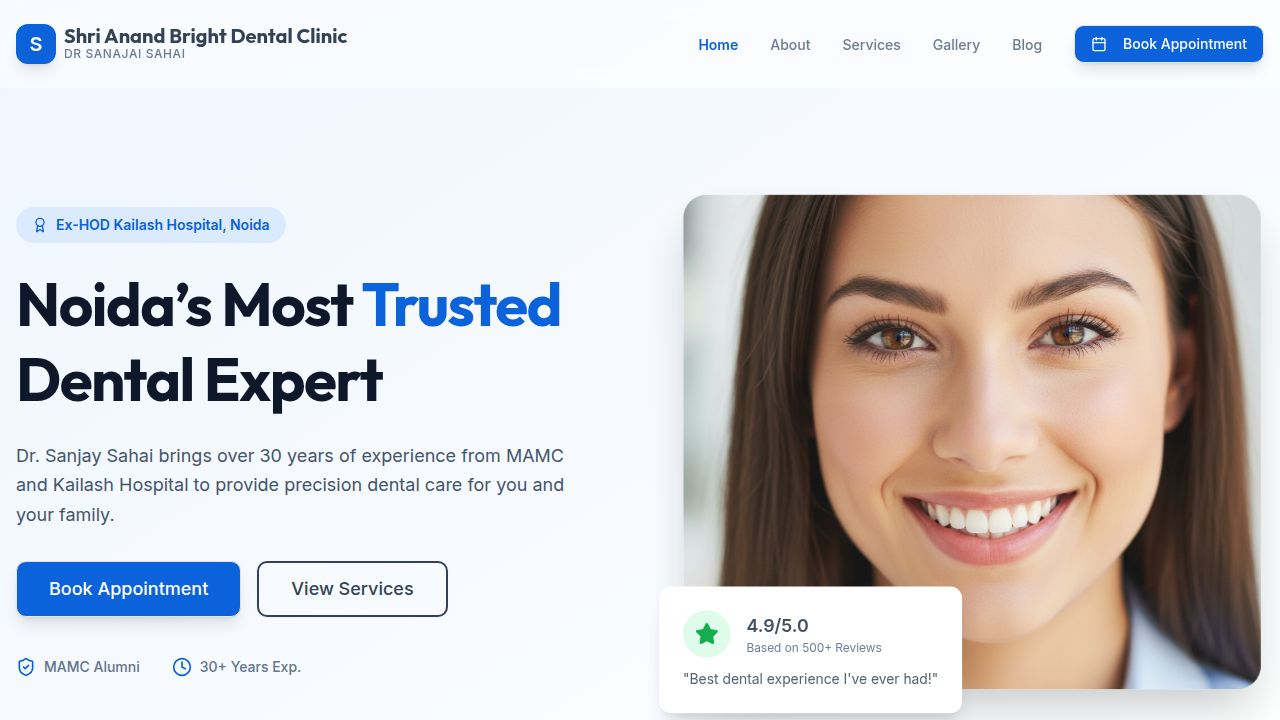
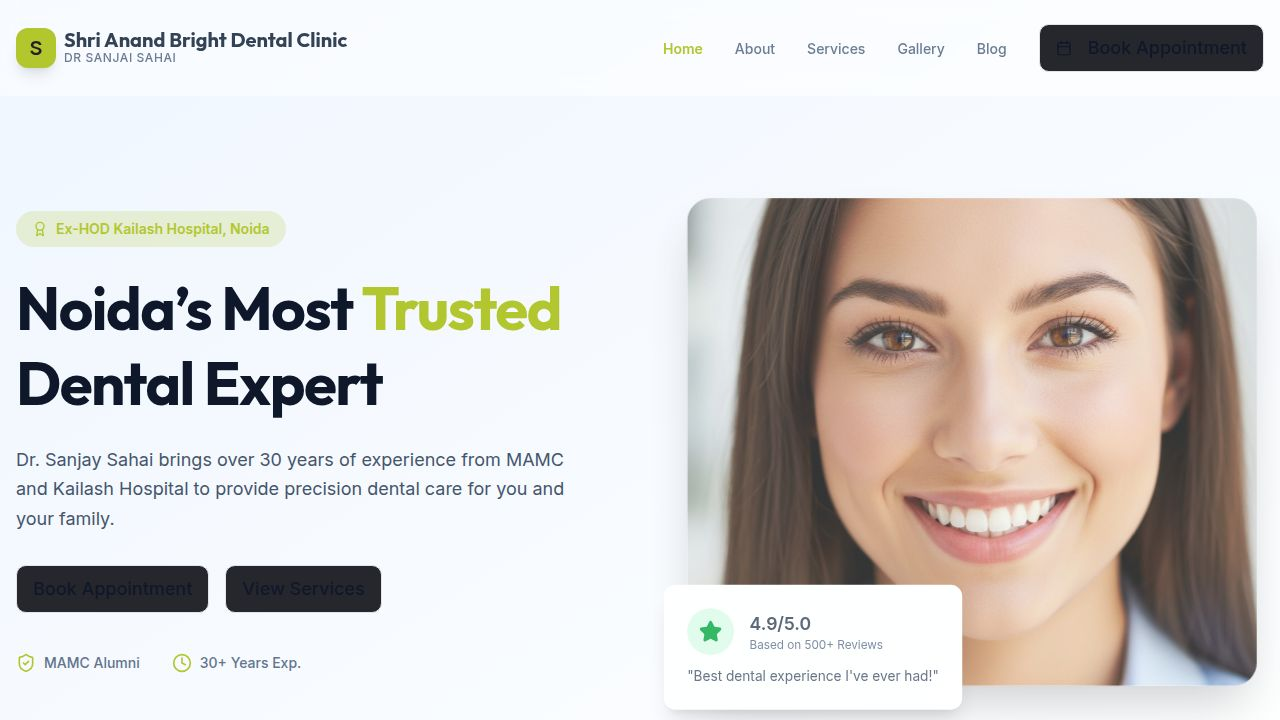
Update site elements with brand colors for enhanced visual identity
Apply brand color #b2c72e to major UI elements, including buttons, logo, and contact form headers, while ensuring text contrast with #1f2025.

Replit-Commit-Author: Agent
Replit-Commit-Session-Id: 5e6cce0e-021d-4750-b770-909feb5ccffe
Replit-Commit-Checkpoint-Type: full_checkpoint
Replit-Commit-Event-Id: 39cb4d30-f639-446c-9f6f-6451746a96e8
Replit-Commit-Screenshot-Url: https://storage.googleapis.com/screenshot-production-us-central1/1ec2a77f-9ef1-43e6-8072-b4ac018818dc/5e6cce0e-021d-4750-b770-909feb5ccffe/PDt1ser
Replit-Helium-Checkpoint-Created: true

diff --git a/client/src/pages/Contact.tsx b/client/src/pages/Contact.tsx
@@ -109,11 +109,11 @@ export default function Contact() {
 
           {/* Form */}
           <div className="lg:w-1/2">
-            <Card className="border-none shadow-2xl shadow-blue-100">
-              <CardHeader className="bg-primary text-white rounded-t-xl p-8">
+            <Card className="border-none shadow-2xl shadow-[#b2c72e]/10">
+              <CardHeader className="bg-[#b2c72e] text-[#1f2025] rounded-t-xl p-8">
                 <CardTitle className="text-2xl">Book an Appointment</CardTitle>
-                <CardDescription className="text-blue-100">
-                  Fill out the form below and our reception will call you to confirm.
+                <CardDescription className="text-[#1f2025]/80">
+                  Fill out the form below and our reception will connect with you to confirm.
                 </CardDescription>
               </CardHeader>
               <CardContent className="p-8">

diff --git a/client/src/components/layout/Navbar.tsx b/client/src/components/layout/Navbar.tsx
@@ -35,7 +35,7 @@ export function Navbar() {
       <div className="container mx-auto px-4 flex items-center justify-between">
         <Link href="/">
           <a className="flex items-center gap-2 group">
-            <div className="w-10 h-10 bg-primary rounded-lg flex items-center justify-center text-white font-bold text-xl shadow-lg group-hover:scale-105 transition-transform">
+            <div className="w-10 h-10 bg-[#b2c72e] rounded-lg flex items-center justify-center text-[#1f2025] font-bold text-xl shadow-lg group-hover:scale-105 transition-transform">
               S
             </div>
             <div className="flex flex-col">

diff --git a/client/src/pages/Home.tsx b/client/src/pages/Home.tsx
@@ -65,7 +65,7 @@ export default function Home() {
                 animate={{ opacity: 1, y: 0 }}
                 transition={{ duration: 0.6 }}
               >
-                <div className="inline-flex items-center gap-2 px-4 py-2 rounded-full bg-blue-100 text-primary text-sm font-semibold mb-6">
+                <div className="inline-flex items-center gap-2 px-4 py-2 rounded-full bg-[#b2c72e]/20 text-[#b2c72e] text-sm font-semibold mb-6">
                   <Award className="w-4 h-4" />
                   <span>Ex-HOD Kailash Hospital, Noida</span>
                 </div>

diff --git a/client/src/index.css b/client/src/index.css
@@ -43,8 +43,8 @@
   --popover: 0 0% 100%;
   --popover-foreground: 215 25% 27%;
 
-  --primary: 215 90% 45%; /* Deep Trustworthy Blue */
-  --primary-foreground: 0 0% 100%;
+  --primary: 68 62% 48%; /* #b2c72e in HSL (approx) */
+  --primary-foreground: 222 47% 11%; /* Dark text for contrast on lime */
 
   --secondary: 195 85% 90%; /* Soft Sky Blue */
   --secondary-foreground: 215 90% 35%;
